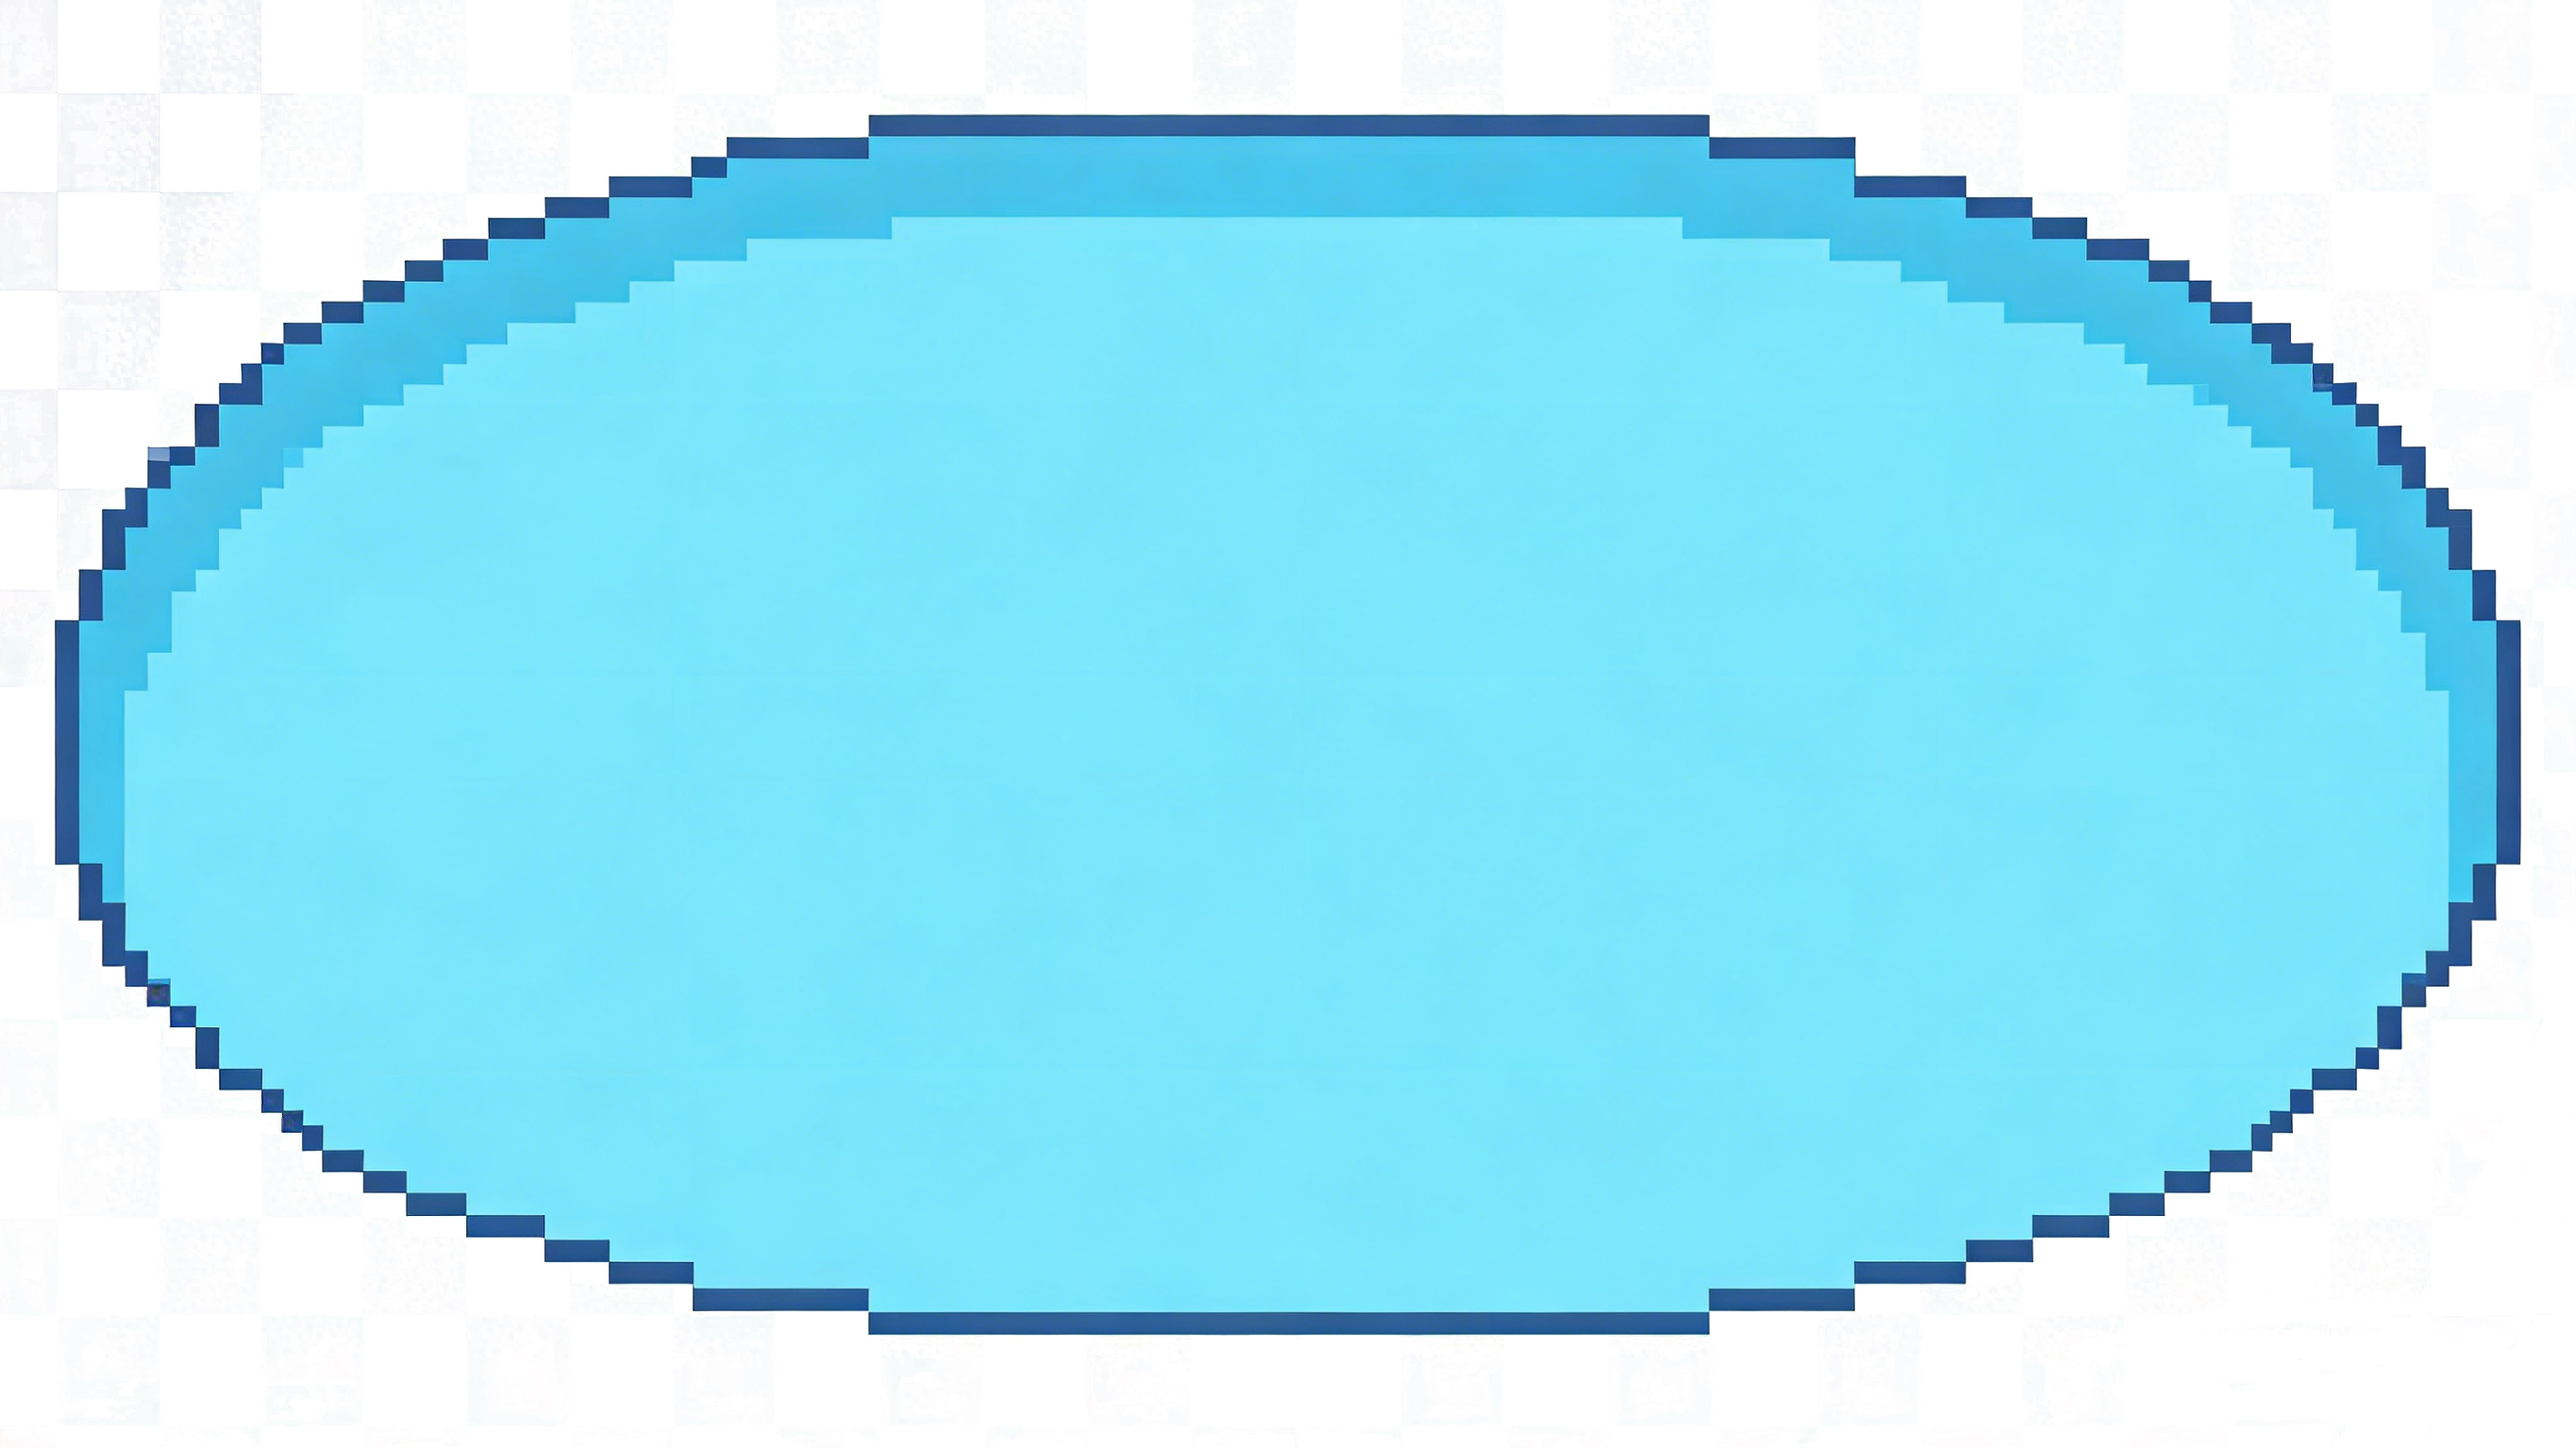
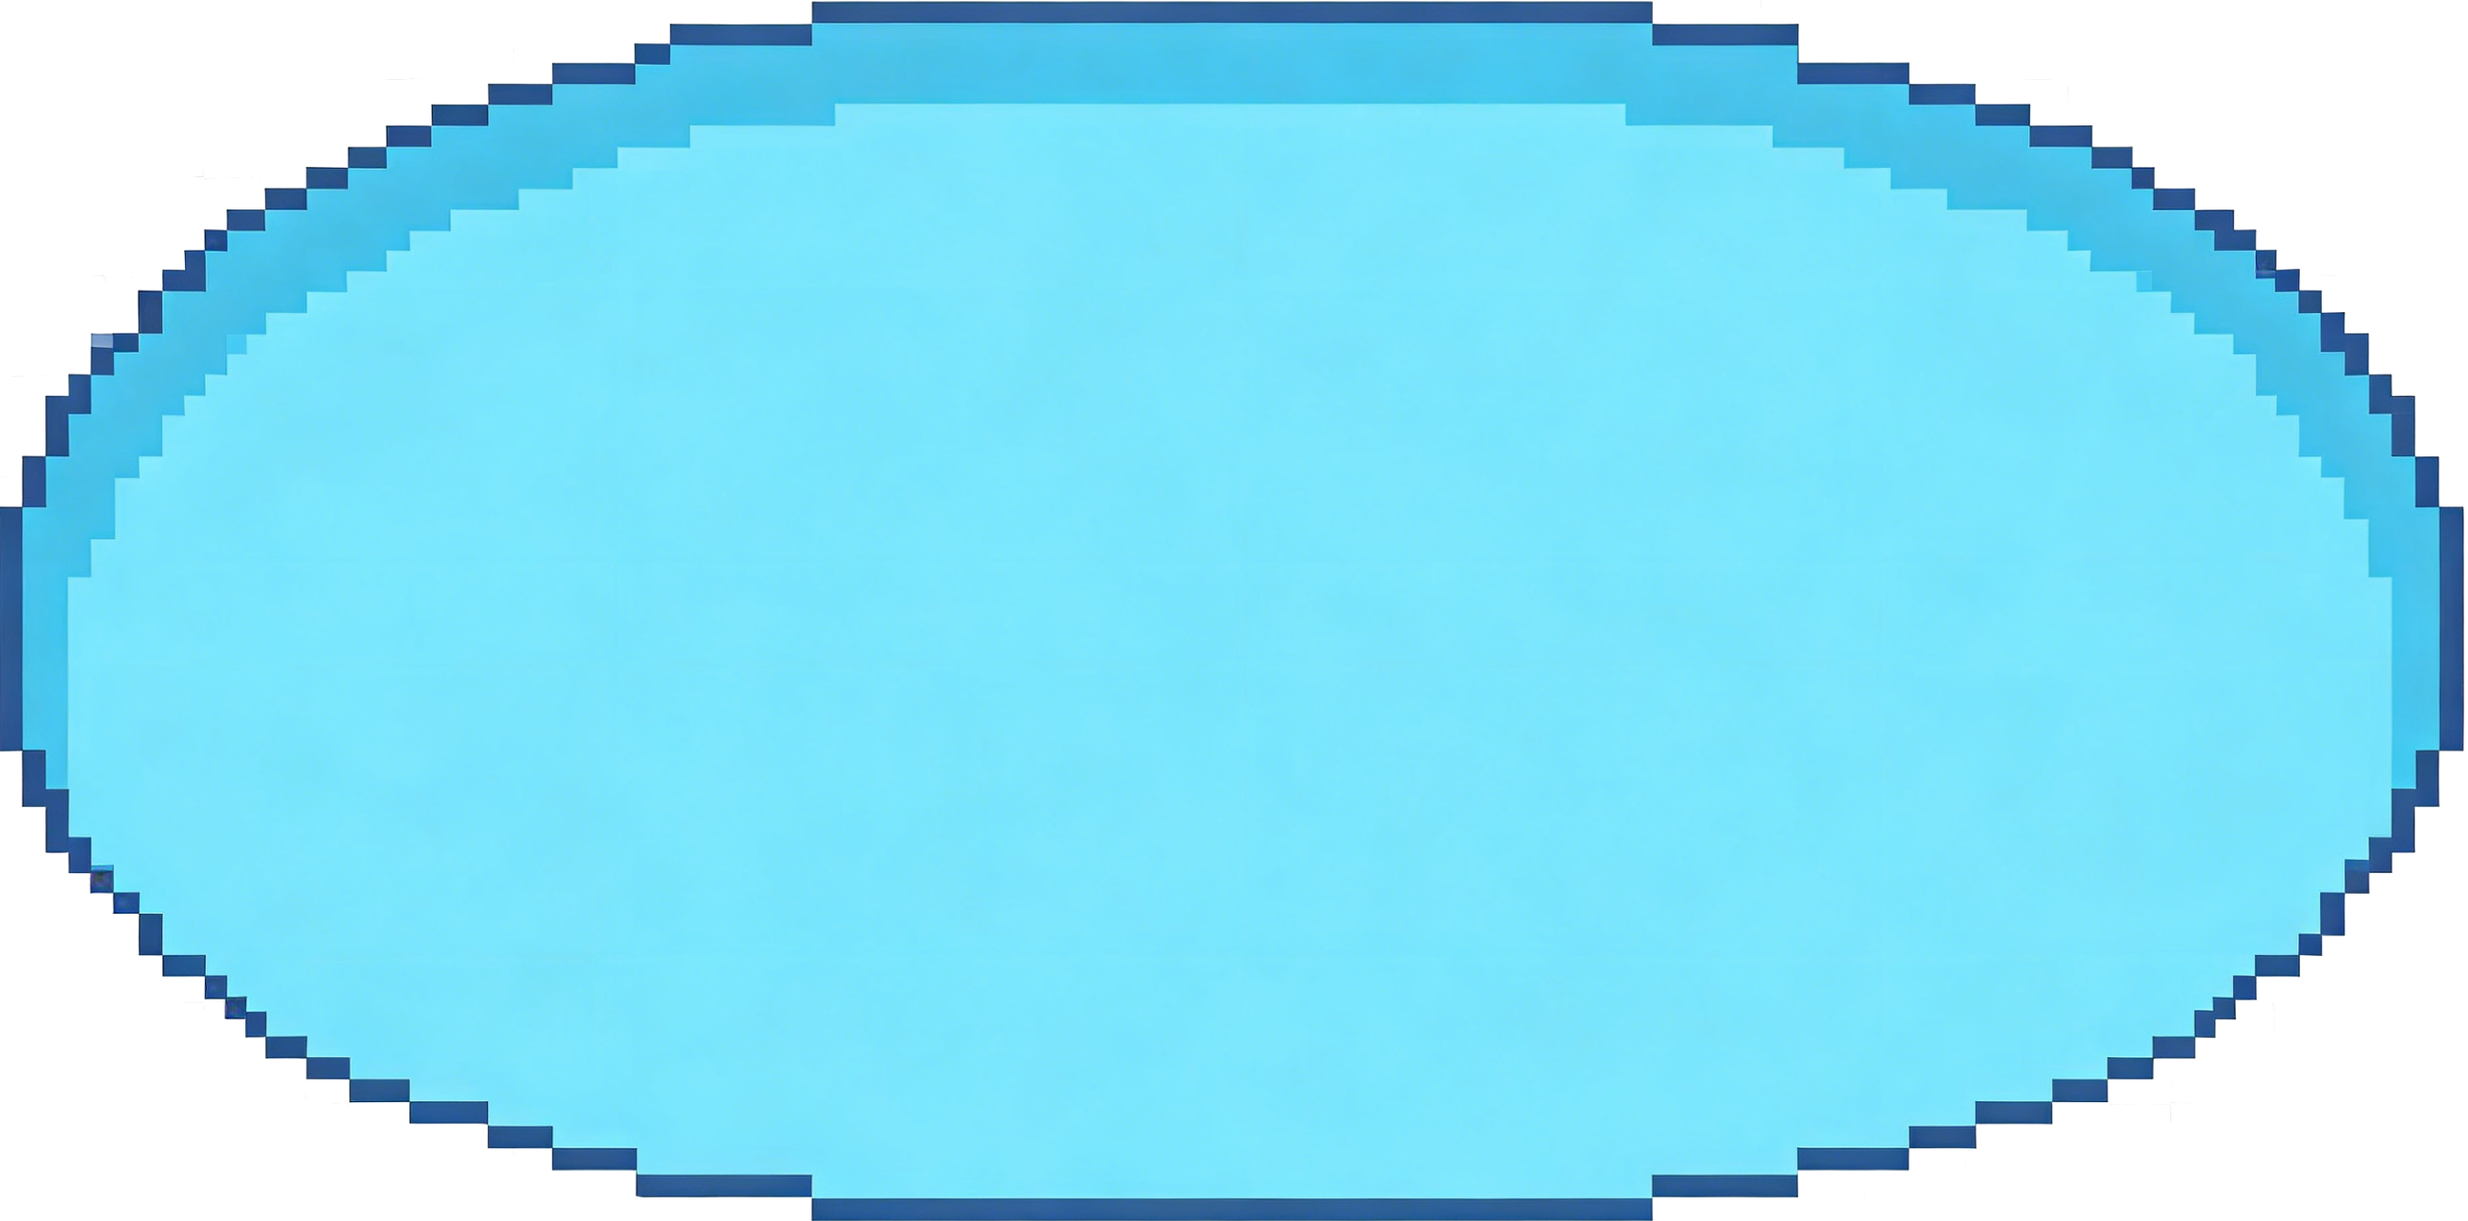
fix: 光标缩32px/椭圆边界约束/鱼躲水草/波纹增强/页脚像素字体

Changed region(s): [[0.0, 0.0, 1.0, 1.0]]

diff --git a/script.js b/script.js
@@ -21,6 +21,30 @@
   function rand(a, b) { return a + Math.random() * (b - a); }
   function randInt(a, b) { return Math.floor(rand(a, b + 1)); }
 
+  /* ====== 椭圆边界检测 ====== */
+  // pond.png 的水面区域近似椭圆，中心(50,50)，半轴约(38,36)
+  var ellCx = 50, ellCy = 50, ellA = 36, ellB = 34;
+
+  function insideEllipse(x, y, w, h) {
+    // 检测矩形4个角 + 中心是否都在椭圆内
+    var pts = [
+      [x, y], [x + w, y], [x, y + h], [x + w, y + h],
+      [x + w / 2, y + h / 2]
+    ];
+    for (var i = 0; i < pts.length; i++) {
+      var dx = (pts[i][0] - ellCx) / ellA;
+      var dy = (pts[i][1] - ellCy) / ellB;
+      if (dx * dx + dy * dy > 1) return false;
+    }
+    return true;
+  }
+
+  function pointInEllipse(x, y) {
+    var dx = (x - ellCx) / ellA;
+    var dy = (y - ellCy) / ellB;
+    return dx * dx + dy * dy <= 1;
+  }
+
   /* ====== 碰撞检测 ====== */
   // placed: [{x,y,w,h}, ...]  全部用百分比
   var placed = [];
@@ -38,17 +62,22 @@
 
   function findPos(w, h, margin) {
     margin = margin || 2;
-    for (var t = 0; t < 80; t++) {
-      var x = rand(4, 94 - w);
-      var y = rand(6, 90 - h);
+    for (var t = 0; t < 120; t++) {
+      var x = rand(10, 88 - w);
+      var y = rand(10, 86 - h);
       var r = { x: x - margin, y: y - margin, w: w + margin * 2, h: h + margin * 2 };
-      if (!overlaps(r)) {
+      if (!overlaps(r) && insideEllipse(x, y, w, h)) {
         placed.push(r);
         return { x: x, y: y };
       }
     }
-    // 失败则放在随机位置
-    return { x: rand(4, 90 - w), y: rand(6, 86 - h) };
+    // 失败则找一个椭圆内的位置
+    for (var f = 0; f < 50; f++) {
+      var fx = rand(18, 78 - w);
+      var fy = rand(18, 78 - h);
+      if (insideEllipse(fx, fy, w, h)) return { x: fx, y: fy };
+    }
+    return { x: 30, y: 40 };
   }
 
   /* ====== 创建装饰元素 ====== */
@@ -144,9 +173,10 @@
   }
 
   /* ==========================================
-     小鱼 ×4 — 平滑游动 + 正确朝向 + 点击加速
+     小鱼 ×4 — 平滑游动 + 椭圆内 + 躲水草
      ========================================== */
   var fishes = [];
+  var grassEls = document.querySelectorAll('.el-grass');
 
   for (var fii = 0; fii < 4; fii++) {
     var fishW = rand(5, 7.5);
@@ -161,20 +191,42 @@
     var dir = Math.random() > 0.5 ? 1 : -1;
     fish.style.transform = 'scaleX(' + dir + ')';
     fish.dataset.dir = dir;
-    fish.dataset.baseX = fishPos.x;
-    fish.dataset.baseY = fishPos.y;
+    fish.dataset.hiding = '0';
 
     elBox.appendChild(fish);
     fishes.push(fish);
 
-    // 点击加速逃跑
+    // 点击：如果躲着就出来，否则加速逃跑
     (function(el) {
       el.addEventListener('click', function(e) {
         e.stopPropagation();
+        // 如果在躲藏中，点击出来
+        if (el.dataset.hiding === '1') {
+          el.dataset.hiding = '0';
+          el.classList.remove('hiding');
+          var curDir = parseInt(el.dataset.dir);
+          curDir = -curDir;
+          el.style.transform = 'scaleX(' + curDir + ')';
+          el.dataset.dir = curDir;
+          el.classList.add('fast');
+          var cx = parseFloat(el.style.left);
+          var cy = parseFloat(el.style.top);
+          var nx = cx + curDir * rand(15, 25);
+          var ny = cy + rand(-6, 6);
+          // 椭圆约束
+          nx = Math.max(14, Math.min(80, nx));
+          ny = Math.max(16, Math.min(80, ny));
+          if (!pointInEllipse(nx, ny)) { nx = 50 + (nx > 50 ? -10 : 10); ny = 50; }
+          el.style.left = nx + '%';
+          el.style.top  = ny + '%';
+          setTimeout(function() { el.classList.remove('fast'); }, 1600);
+          return;
+        }
+
         var curDir = parseInt(el.dataset.dir);
         var curX = parseFloat(el.style.left);
         // 如果鱼在池塘边缘附近，先回头
-        if ((curX <= 8 && curDir === -1) || (curX >= 85 && curDir === 1)) {
+        if (!pointInEllipse(curX + curDir * 5, parseFloat(el.style.top))) {
           curDir = -curDir;
           el.style.transform = 'scaleX(' + curDir + ')';
           el.dataset.dir = curDir;
@@ -184,44 +236,78 @@
         var curY = parseFloat(el.style.top);
         var newX = curX + curDir * rand(15, 30);
         var newY = curY + rand(-8, 8);
-        // 边界限制
-        newX = Math.max(3, Math.min(90, newX));
-        newY = Math.max(5, Math.min(85, newY));
+        newX = Math.max(14, Math.min(80, newX));
+        newY = Math.max(16, Math.min(80, newY));
+        if (!pointInEllipse(newX, newY)) { newX = 50; newY = 50; }
         el.style.left = newX + '%';
         el.style.top  = newY + '%';
-        // 1.5s 后恢复正常速度
-        setTimeout(function() {
-          el.classList.remove('fast');
-        }, 1600);
+        setTimeout(function() { el.classList.remove('fast'); }, 1600);
       });
     })(fish);
   }
 
-  // 鱼巡游定时器：每隔一段时间给鱼设新目标
+  // 让鱼躲到水草下面
+  function hideUnderGrass(fish) {
+    var grasses = elBox.querySelectorAll('.el-grass');
+    if (grasses.length === 0) return false;
+    var g = grasses[randInt(0, grasses.length - 1)];
+    var gx = parseFloat(g.style.left);
+    var gy = parseFloat(g.style.top);
+    fish.dataset.hiding = '1';
+    fish.classList.add('hiding');
+    fish.style.left = gx + '%';
+    fish.style.top  = gy + '%';
+    return true;
+  }
+
+  // 鱼巡游定时器
   function moveFish() {
     fishes.forEach(function(fish) {
-      if (fish.classList.contains('fast')) return; // 逃跑中不干扰
+      if (fish.classList.contains('fast')) return;
+      if (fish.dataset.hiding === '1') return; // 躲着不动
+
+      // 随机概率躲到水草下
+      if (Math.random() < 0.1) {
+        hideUnderGrass(fish);
+        return;
+      }
 
       var curX = parseFloat(fish.style.left);
       var curY = parseFloat(fish.style.top);
       var curDir = parseInt(fish.dataset.dir);
 
-      // 如果在边缘附近，强制转向
-      if (curX <= 8) curDir = 1;
-      else if (curX >= 85) curDir = -1;
+      // 如果当前位置不在椭圆内，游回中心方向
+      if (!pointInEllipse(curX, curY)) {
+        var nx2 = curX + (50 - curX) * 0.5;
+        var ny2 = curY + (50 - curY) * 0.5;
+        var newDir2 = nx2 > curX ? 1 : -1;
+        fish.style.transform = 'scaleX(' + newDir2 + ')';
+        fish.dataset.dir = newDir2;
+        fish.style.left = nx2 + '%';
+        fish.style.top  = ny2 + '%';
+        return;
+      }
 
-      // 新目标
+      // 如果在边缘附近，强制转向
+      if (!pointInEllipse(curX + curDir * 10, curY)) curDir = -curDir;
+
       var dx = rand(8, 22) * (Math.random() > 0.3 ? curDir : -curDir);
       var dy = rand(-6, 6);
       var nx = curX + dx;
       var ny = curY + dy;
-      nx = Math.max(3, Math.min(90, nx));
-      ny = Math.max(5, Math.min(85, ny));
+      nx = Math.max(14, Math.min(80, nx));
+      ny = Math.max(16, Math.min(80, ny));
 
-      // 判断新朝向
+      // 确保新位置在椭圆内
+      if (!pointInEllipse(nx, ny)) {
+        // 缩短距离重试
+        nx = curX + dx * 0.3;
+        ny = curY + dy * 0.3;
+        if (!pointInEllipse(nx, ny)) { nx = curX; ny = curY; }
+      }
+
       var newDir = (nx - curX) > 0 ? 1 : -1;
       if (newDir !== curDir) {
-        // 先转身
         fish.style.transform = 'scaleX(' + newDir + ')';
         fish.dataset.dir = newDir;
       }

diff --git a/style.css b/style.css
@@ -12,9 +12,10 @@ img {
 }
 
 /* ===== 鼠标指针 ===== */
-html, html * { cursor: url('images/cursor_frog.png') 0 0, auto !important; }
-.interactive, .interactive *, a, button, [onclick] {
-  cursor: url('images/cursor_frog_hover.png') 0 0, pointer !important;
+html { cursor: url('images/cursor_frog.png') 2 2, auto; }
+body { cursor: url('images/cursor_frog.png') 2 2, auto; }
+.interactive, .el, a, button {
+  cursor: url('images/cursor_frog_hover.png') 2 2, pointer;
 }
 
 /* ===== 变量 ===== */
@@ -68,17 +69,13 @@ body {
   height: calc(100vh - 110px);
   min-height: 400px;
   max-height: 700px;
-  background: url('images/pond.png') center/cover no-repeat;
+  background: url('images/pond.png') center/contain no-repeat;
   border-radius: 6px;
   overflow: hidden;
-  box-shadow:
-    inset 0 4px 24px rgba(142,196,214,0.35),
-    inset 0 -6px 18px rgba(142,196,214,0.2),
-    0 6px 28px rgba(74,107,82,0.1);
 }
 
-/* ===== 像素锯齿边缘 ===== */
-.edge { position: absolute; z-index: 20; pointer-events: none; }
+/* ===== 像素锯齿边缘（pond.png 自带，隐藏CSS边缘） ===== */
+.edge { display: none; }
 .edge-t {
   top: 0; left: 0; right: 0; height: 12px;
   background: linear-gradient(to right,
@@ -209,12 +206,17 @@ body {
 /* 小鱼 — 平滑游动 */
 .el-fish {
   z-index: 4;
-  /* 默认速度由 JS 通过 transition 控制 */
-  transition: left 8s linear, top 8s linear, transform 0.4s ease;
+  transition: left 8s linear, top 8s linear, transform 0.4s ease, opacity 0.6s ease;
 }
 /* 点击后加速 */
 .el-fish.fast {
-  transition: left 1.5s cubic-bezier(0.2,0.7,0.3,1), top 1.5s cubic-bezier(0.2,0.7,0.3,1), transform 0.3s ease;
+  transition: left 1.5s cubic-bezier(0.2,0.7,0.3,1), top 1.5s cubic-bezier(0.2,0.7,0.3,1), transform 0.3s ease, opacity 0.3s ease;
+}
+/* 躲在水草下 */
+.el-fish.hiding {
+  opacity: 0.35;
+  z-index: 2;
+  transition: left 6s linear, top 6s linear, transform 0.4s ease, opacity 1.5s ease;
 }
 
 
@@ -294,12 +296,13 @@ body {
    ========================================================== */
 .ripple {
   position: absolute; pointer-events: none; z-index: 8;
-  animation: ripEx 1.1s ease-out forwards;
+  animation: ripEx 1.5s ease-out forwards;
 }
-.ripple img { width: 100%; height: 100%; }
+.ripple img { width: 100%; height: 100%; image-rendering: pixelated; }
 @keyframes ripEx {
-  0%   { width: 12px; height: 12px; opacity: 0.85; transform: translate(-50%,-50%) scale(0.4); }
-  100% { width: 55px; height: 55px; opacity: 0;    transform: translate(-50%,-50%) scale(1.2); }
+  0%   { width: 20px; height: 20px; opacity: 0.9; transform: translate(-50%,-50%) scale(0.5); }
+  50%  { opacity: 0.5; }
+  100% { width: 90px; height: 90px; opacity: 0; transform: translate(-50%,-50%) scale(1.5); }
 }
 
 .bubble {
@@ -315,8 +318,9 @@ body {
 /* ===== 页脚 ===== */
 .footer {
   text-align: center; font-family: var(--pf);
-  font-size: 0.45rem; color: var(--text2);
-  padding: 10px; opacity: 0.5; -webkit-font-smoothing: none;
+  font-size: clamp(0.55rem, 1.5vw, 0.75rem); color: var(--text2);
+  padding: 12px; -webkit-font-smoothing: none;
+  letter-spacing: 1px;
 }
 
 /* ==========================================================
